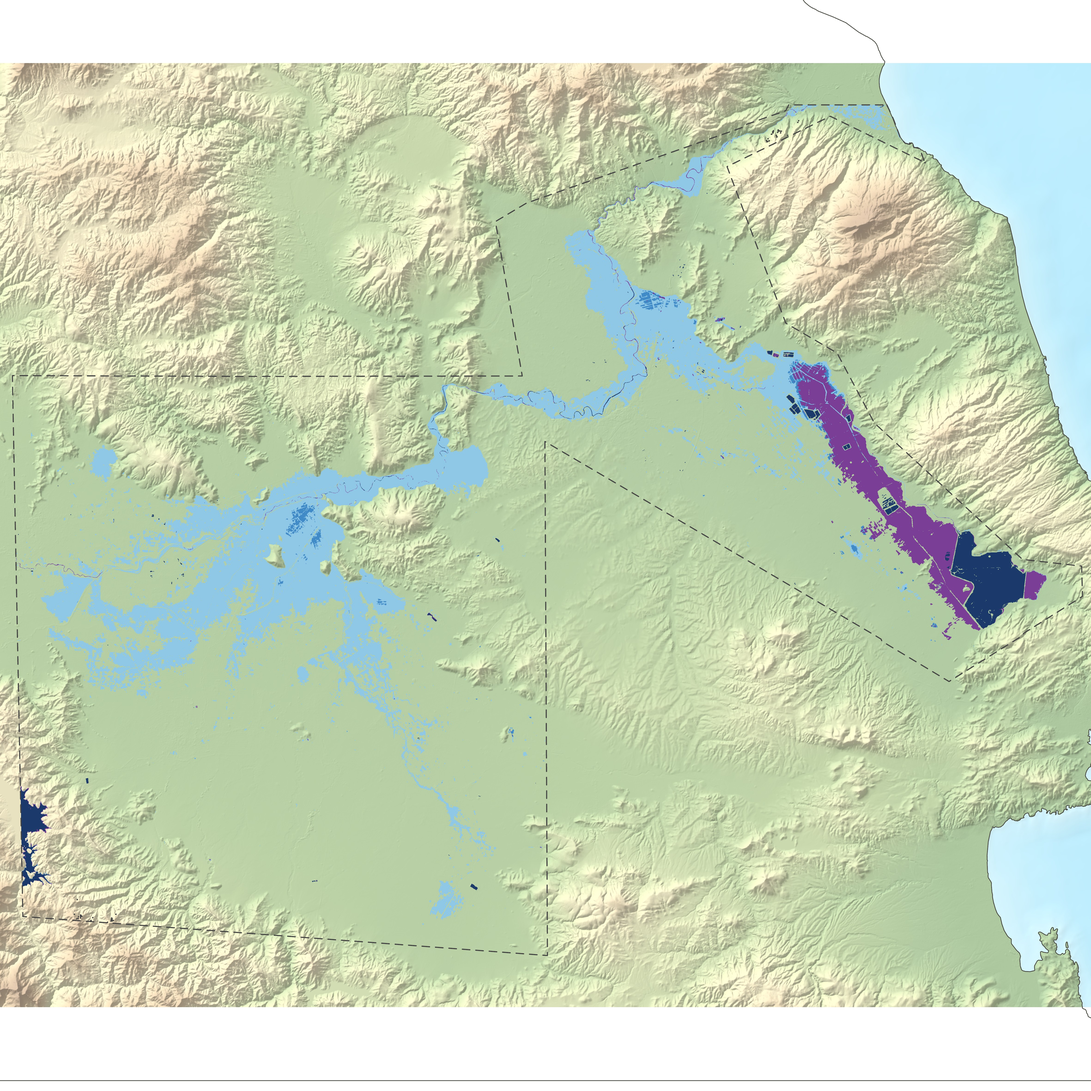
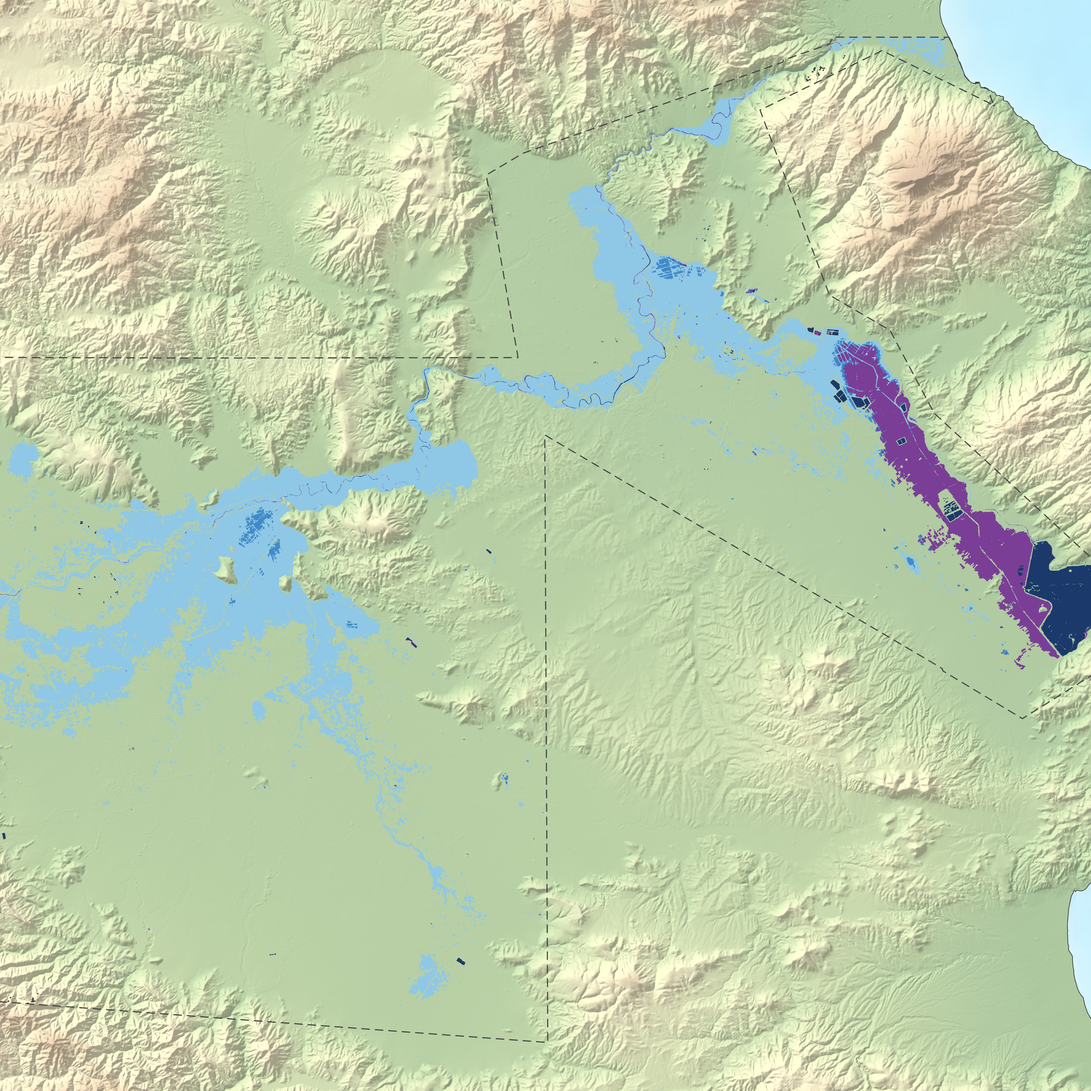
Projects by area of study as a second row of tabs, a project in as many as fit; plain titles and full dates in the lists; Milos pinned; the handheld GPS work at ELSTAT; Day 27's square image without the white bands

diff --git a/src/site.ts b/src/site.ts
@@ -93,6 +93,29 @@ export const projectCategories = [
 
 export type ProjectCategory = (typeof projectCategories)[number];
 
+/**
+ * Areas of study: a second row of tabs on the Projects page, across the
+ * categories. A project lists any number of them in its `fields` frontmatter,
+ * so it can appear under several. Pages live at /projects/field/<slug>.
+ */
+export const projectFields = [
+  { slug: 'geodesy', label: 'Geodesy & GNSS', blurb: 'Positions, coordinate systems and the shape and motion of the ground.' },
+  { slug: 'bathymetry', label: 'Bathymetry & Hydrography', blurb: 'The sea floor, the sea and what moves on it.' },
+  { slug: 'remote-sensing', label: 'Remote Sensing', blurb: 'Satellite images and what they show over time.' },
+  { slug: 'terrain', label: 'Terrain & Relief', blurb: 'Elevation, landforms and what the land lets you see.' },
+  { slug: 'hazards', label: 'Natural Hazards', blurb: 'Earthquakes, floods and wildfires.' },
+  { slug: 'transport', label: 'Transport & Networks', blurb: 'Roads, railways, shipping and the networks between places.' },
+  { slug: 'energy-environment', label: 'Energy & Environment', blurb: 'Renewable energy, emissions and protected nature.' },
+  { slug: 'society', label: 'Population & Society', blurb: 'People, settlements and the services they reach.' },
+  { slug: 'culture', label: 'History & Culture', blurb: 'Heritage, history, wine and the saints.' },
+  { slug: 'cartography', label: 'Cartographic Experiments', blurb: 'Maps that play with scale, form, sound and time.' },
+] as const;
+
+export type ProjectField = (typeof projectFields)[number];
+
+/** The `fields` values a project may declare. Used by the content schema. */
+export const projectFieldSlugs = projectFields.map((f) => f.slug) as unknown as [string, ...string[]];
+
 /** The `category` values a project may declare. Used by the content schema. */
 export const projectCategorySlugs = projectCategories.map((c) => c.slug) as unknown as [
   string,

diff --git a/src/pages/sitemap.xml.ts b/src/pages/sitemap.xml.ts
@@ -6,7 +6,7 @@
  */
 import type { APIRoute } from 'astro';
 import { getCollection } from 'astro:content';
-import { projectCategories } from '../site';
+import { projectCategories, projectFields } from '../site';
 import { isListed, yearsOf } from '../projects';
 
 export const GET: APIRoute = async ({ site }) => {
@@ -23,6 +23,10 @@ export const GET: APIRoute = async ({ site }) => {
     ...projectCategories
       .filter((c) => projects.some((p) => p.data.category === c.slug))
       .map((c) => ({ path: `/projects/${c.slug}` })),
+    // Areas of study with something published.
+    ...projectFields
+      .filter((f) => projects.some((p) => p.data.fields.includes(f.slug)))
+      .map((f) => ({ path: `/projects/field/${f.slug}` })),
     // Earlier years of a by-year category (the newest year is the page above).
     ...projectCategories
       .filter((c) => c.byYear)

diff --git a/src/content.config.ts b/src/content.config.ts
@@ -1,6 +1,6 @@
 import { defineCollection, z } from 'astro:content';
 import { glob } from 'astro/loaders';
-import { projectCategorySlugs } from './site';
+import { projectCategorySlugs, projectFieldSlugs } from './site';
 
 /**
  * Each project is one Markdown file in src/content/projects/.
@@ -36,6 +36,8 @@ const projects = defineCollection({
     // `projectCategories` in src/site.ts; an unrecognised one fails the build
     // rather than quietly hiding the project. Defaults to 'misc'.
     category: z.enum(projectCategorySlugs).default('misc'),
+    // Areas of study (src/site.ts `projectFields`): any number, each a tab of its own.
+    fields: z.array(z.enum(projectFieldSlugs)).default([]),
     // Free text: "Thessaloniki, Greece", "MSc thesis", "Client work".
     context: z.string().optional(),
     // Software and methods. Shown as pills.

diff --git a/src/styles/global.css b/src/styles/global.css
@@ -386,6 +386,42 @@ hr {
   font-size: 0.85rem;
 }
 
+/* The two sorting rows: a bold lead-in in a column of its own, the tabs wrapping beside it, never under it. */
+.subnav--origin,
+.subnav--fields {
+  display: grid;
+  grid-template-columns: 7rem 1fr;
+  align-items: baseline;
+  column-gap: 0.75rem;
+}
+
+.subnav--fields {
+  margin-top: 0.6rem;
+}
+
+.subnav__links {
+  display: flex;
+  flex-wrap: wrap;
+  gap: 0.15rem 1.5rem;
+}
+
+.subnav--fields .subnav__links {
+  gap: 0.15rem 1.1rem;
+}
+
+.subnav--fields a {
+  font-size: 0.85rem;
+}
+
+.subnav__label {
+  font-size: 0.8rem;
+  font-weight: 700;
+  color: var(--text);
+  text-transform: uppercase;
+  letter-spacing: 0.04em;
+  white-space: nowrap;
+}
+
 /* Marks a draft on the dev server; production builds never contain one. */
 .draft-flag {
   display: inline-block;

diff --git a/src/cv.ts b/src/cv.ts
@@ -30,6 +30,7 @@ export const roles = [
     points: [
       'Directed a team of four enumerators during the Greek Population and Housing Census of 2021.',
       'Collected demographic and structural data from 600+ households under strict quality-control protocols.',
+      'Recorded the positions of apartment building entrances with a handheld GPS device across the sector.',
     ],
   },
 ];
@@ -136,4 +137,4 @@ export const skills = [
  * Project titles here carry a "Day 5 - Earth: " prefix that means something on
  * the challenge pages and nothing on a CV. Strip it for the summary listings.
  */
-export const plainTitle = (title: string) => title.replace(/^Day \d+ - [^:]+:\s*/, '');
+export const plainTitle = (title: string) => title.replace(/^Day \d+ - (?:Senses: )?[^:]+:\s*/, '');

diff --git a/src/content/projects/30dmc-2026-day-26-water.md b/src/content/projects/30dmc-2026-day-26-water.md
@@ -3,7 +3,9 @@ title: 'Day 26 - Water: The Sea Floor off Milos'
 summary: 'A raw multibeam survey of 105 million soundings south-east of Milos, decoded, cleaned and gridded at 5 m in Python and checked with crosslines against IHO S-44 Order 1a. It shows two rises and about a hundred pits that the 100 m European grid misses. Turn it in 3D and click for depths.'
 date: 2026-11-26
 created: 2026-11-25
+featured: true
 category: '30-day-map-challenge'
+fields: ['bathymetry']
 context: '#30DayMapChallenge 2026 · Day 26'
 tags: ['ArcGIS Pro', 'Python', 'Three.js', 'Bathymetry', 'Hydrography']
 image: '/images/30dmc-2026-day-26-wide.webp'

diff --git a/src/content/projects/school-diploma-thesis-emissions-downscaling.md b/src/content/projects/school-diploma-thesis-emissions-downscaling.md
@@ -5,6 +5,7 @@ summary: 'Diploma thesis, graded 10/10: spatial downscaling of gridded road-tran
 # submission or defence date.
 date: 2026-07-01
 category: 'school'
+fields: ['transport', 'energy-environment']
 context: 'Diploma thesis · Aristotle University of Thessaloniki · Graded 10/10'
 tags: ['Python', 'Floating Car Data', 'Emissions', 'GIS']
 # Kept off the site until checked. Replace every "[Add: ...]" note below, add

diff --git a/src/content/projects/30dmc-2026-day-19-smell.md b/src/content/projects/30dmc-2026-day-19-smell.md
@@ -4,6 +4,7 @@ summary: 'Why Thessaloniki''s seafront smells in summer: the bay at the closed e
 date: 2026-11-19
 created: 2026-11-13
 category: '30-day-map-challenge'
+fields: ['remote-sensing', 'energy-environment']
 context: '#30DayMapChallenge 2026 · Day 19'
 tags: ['ArcGIS Pro', 'Python', 'Leaflet', 'Remote Sensing', 'Copernicus Marine']
 image: '/images/30dmc-2026-day-19-wide.webp'

diff --git a/src/content/projects/30dmc-2026-day-27-new-tool.md b/src/content/projects/30dmc-2026-day-27-new-tool.md
@@ -4,6 +4,7 @@ summary: 'Storm Daniel''s flood on the plain of Thessaly, mapped from Sentinel-2
 date: 2026-11-27
 created: 2026-11-26
 category: '30-day-map-challenge'
+fields: ['remote-sensing', 'hazards']
 context: '#30DayMapChallenge 2026 · Day 27'
 tags: ['ESA SNAP', 'Sentinel-2', 'Python', 'Leaflet', 'Flood', 'Remote sensing']
 image: '/images/30dmc-2026-day-27-wide.webp'

diff --git a/src/content/projects/30dmc-2026-day-06-vintage.md b/src/content/projects/30dmc-2026-day-06-vintage.md
@@ -4,6 +4,7 @@ summary: 'The Thermaic Gulf drawn as a British Admiralty chart of about 1850, fr
 date: 2026-11-06
 created: 2026-11-03
 category: '30-day-map-challenge'
+fields: ['bathymetry', 'cartography', 'culture']
 context: '#30DayMapChallenge 2026 · Day 6'
 tags: ['ArcGIS Pro', 'Python', 'GDAL', 'Bathymetry', 'Cartography']
 image: '/images/30dmc-2026-day-06-wide.webp'

diff --git a/src/content/projects/30dmc-2026-day-12-power.md b/src/content/projects/30dmc-2026-day-12-power.md
@@ -4,6 +4,7 @@ summary: 'The 175 km power cable that links Crete to the mainland grid, at its c
 date: 2026-11-12
 created: 2026-10-26
 category: '30-day-map-challenge'
+fields: ['bathymetry', 'energy-environment']
 context: '#30DayMapChallenge 2026 · Day 12'
 tags: ['ArcGIS Pro', 'Python', 'GDAL', 'Cable route', 'Bathymetry']
 image: '/images/30dmc-2026-day-12-wide.webp'

diff --git a/src/content/projects/30dmc-2026-day-25-is-this-a-map.md b/src/content/projects/30dmc-2026-day-25-is-this-a-map.md
@@ -4,6 +4,7 @@ summary: 'A 1904 piece for flute and piano with a map of Greece hidden in its fi
 date: 2026-11-25
 created: 2026-11-21
 category: '30-day-map-challenge'
+fields: ['cartography']
 context: '#30DayMapChallenge 2026 · Day 25'
 tags: ['ArcGIS Pro', 'Python', 'Signal processing', 'Audio', 'Copernicus', 'EMODnet']
 image: '/images/30dmc-2026-day-25-wide.webp'
